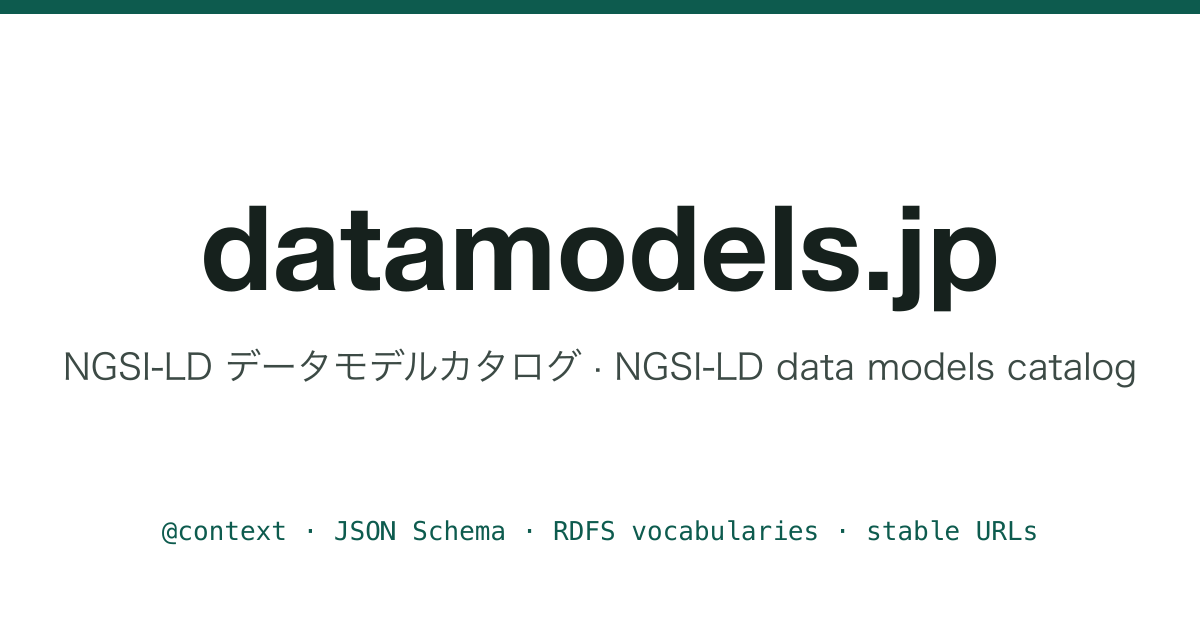
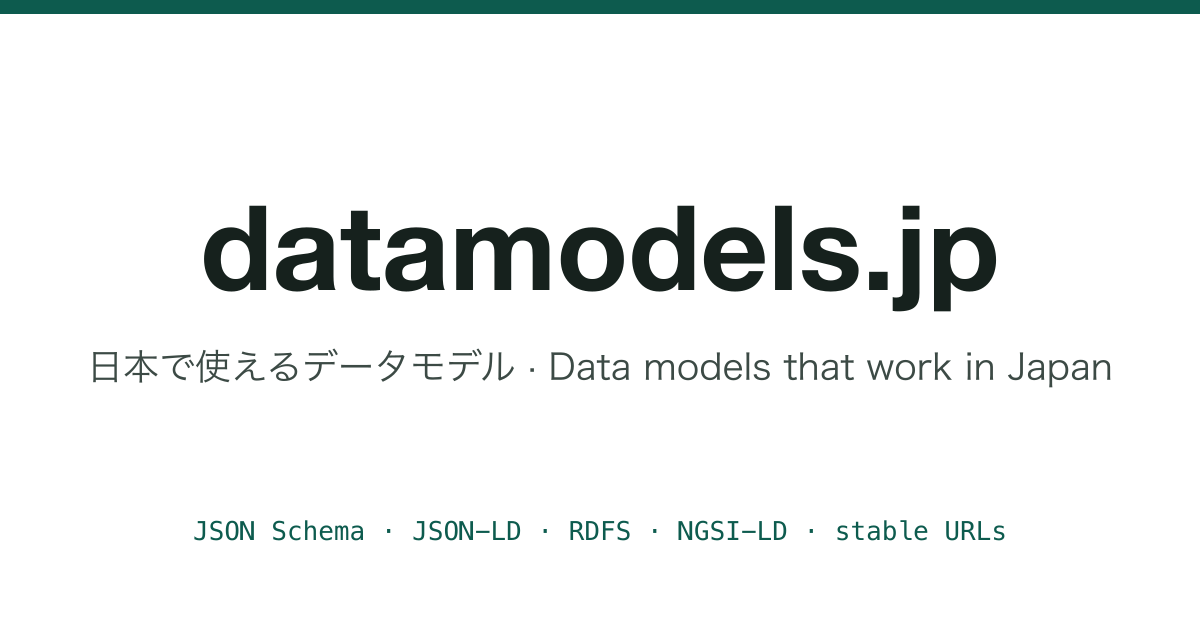
Present the catalog as data models for Japan, not NGSI-LD only
The models are usable as plain JSON (JSON Schema), as linked data (JSON-LD,
RDFS) and as they are with NGSI-LD, which shapes their conventions.

- Home, site and About descriptions, preview image, README, package.json,
  catalog-info.yaml and the design document say so; the heading is
  「日本で使えるデータモデルのカタログ」 / "Data models that work in Japan".
- Using the models (ja/en) opens with the three ways and gains step 4, linked
  data: JSON-LD to RDF in Node.js (jsonld) and Python (pyld), both run against
  the live site, plus pointers to the vocabularies and mapping tables.

Changed region(s): [[0.0617, 0.5429, 0.9558, 0.6032], [0.4625, 0.8143, 0.8633, 0.8746], [0.1233, 0.8143, 0.4317, 0.8746]]

diff --git a/site/.vitepress/config.ts b/site/.vitepress/config.ts
@@ -73,7 +73,7 @@ const SITE_URL = 'https://datamodels.jp';
 
 export default defineConfig({
   title: 'datamodels.jp',
-  description: 'Bilingual catalog of NGSI-LD data models: JSON-LD contexts, JSON Schemas and vocabularies at stable URLs',
+  description: 'Data models that work in Japan: JSON Schemas, JSON-LD contexts and vocabularies at stable URLs, ready for NGSI-LD',
   base: '/',
   cleanUrls: true,
   lastUpdated: false,
@@ -95,7 +95,7 @@ export default defineConfig({
   transformPageData(pageData) {
     const path = pageData.relativePath.replace(/(^|\/)index\.md$/, '$1').replace(/\.md$/, '');
     const title = pageData.title && pageData.title !== 'datamodels.jp' ? `${pageData.title} | datamodels.jp` : 'datamodels.jp';
-    const description = pageData.description || pageData.frontmatter.description || 'Bilingual catalog of NGSI-LD data models: JSON-LD contexts, JSON Schemas and vocabularies at stable URLs';
+    const description = pageData.description || pageData.frontmatter.description || 'Data models that work in Japan: JSON Schemas, JSON-LD contexts and vocabularies at stable URLs, ready for NGSI-LD';
     pageData.frontmatter.head ??= [];
     pageData.frontmatter.head.push(
       ['meta', { property: 'og:title', content: title }],
@@ -132,7 +132,7 @@ export default defineConfig({
     root: {
       label: '日本語',
       lang: 'ja',
-      description: 'NGSI-LD データモデルカタログ',
+      description: '日本で使えるデータモデルのカタログ',
       themeConfig: {
         nav: nav('', 'ja'),
         footer: { message: '運営: <a href="https://geolonia.com/">Geolonia</a> · モデル CC BY 4.0 · コード Apache-2.0 · <a href="/about">このサイトについて</a>' },

diff --git a/site/guide/use.md b/site/guide/use.md
@@ -1,11 +1,15 @@
 ---
 title: 使い方
-description: カタログのモデルでデータを検証し、NGSI-LD ブローカーに送るまで
+description: カタログのモデルで JSON を検証し、NGSI-LD ブローカーに送り、Linked Data として使う
 ---
 
 # 使い方
 
-各モデルのページには、`@context`、JSON Schema、例の URL があります。どれも普通の URL なので、特定の製品は要りません。標準の NGSI-LD API を話すブローカーなら、どれでも使えます。
+各モデルのページには、`@context`、JSON Schema、例の URL があります。どれも普通の URL なので、特定の製品は要りません。使い方は 3 通りあります。
+
+- **JSON として**: JSON Schema で、API のリクエスト、フォームの入力、CSV から変換したデータなどを検証する（手順 2）。
+- **NGSI-LD で**: 標準の NGSI-LD API を話すブローカーに、そのまま送る（手順 3）。モデルの形（`id`・`type`、属性の種類、normalized の例）は NGSI-LD の約束に従っています。
+- **Linked Data として**: `@context` を付けると RDF になり、各属性の意味を IRI で指せる（手順 4）。
 
 コードブロックは右上のボタンでコピーできます。
 
@@ -109,6 +113,55 @@ curl "$GEONICDB_BASE_URL/ngsi-ld/v1/entities?type=RoadRestriction&q=restrictionS
 :::
 
 複数のテナントを持つブローカーでは、標準の `NGSILD-Tenant` ヘッダーでテナントを指定します。認証の方法はブローカーごとに違います。
+
+## 4. Linked Data として使う
+
+JSON に `@context` を付けると JSON-LD になり、RDF に変換できます。属性はカタログの IRI（`https://datamodels.jp/ns/...`）や、借りている標準の IRI（schema.org、Smart Data Models）になります。`id` と `type` を JSON-LD の `@id`・`@type` にするため、NGSI-LD の core context も並べます。
+
+::: code-group
+
+```js [Node.js]
+// npm install jsonld
+import jsonld from 'jsonld';
+
+const entity = await (await fetch('https://datamodels.jp/examples/transportation/RoadRestriction/example.json')).json();
+// 普通の JSON に context を付けると Linked Data になる。
+entity['@context'] = [
+  'https://datamodels.jp/context/transportation/v1.0.0.jsonld',
+  'https://uri.etsi.org/ngsi-ld/v1/ngsi-ld-core-context-v1.8.jsonld', // id と type の対応
+];
+
+// 既定のローダーの代わりに fetch を使う（どの環境でも動く）。
+const documentLoader = async (url) => ({ documentUrl: url, document: await (await fetch(url)).json() });
+console.log(await jsonld.toRDF(entity, { format: 'application/n-quads', documentLoader }));
+```
+
+```python [Python]
+# pip install pyld requests
+import requests
+from pyld import jsonld
+
+entity = requests.get("https://datamodels.jp/examples/transportation/RoadRestriction/example.json", timeout=30).json()
+# 普通の JSON に context を付けると Linked Data になる。
+entity["@context"] = [
+    "https://datamodels.jp/context/transportation/v1.0.0.jsonld",
+    "https://uri.etsi.org/ngsi-ld/v1/ngsi-ld-core-context-v1.8.jsonld",  # id と type の対応
+]
+
+print(jsonld.to_rdf(entity, {"format": "application/n-quads"}))
+```
+
+:::
+
+結果の一部:
+
+```text
+<urn:ngsi-ld:RoadRestriction:0001> <http://www.w3.org/1999/02/22-rdf-syntax-ns#type> <https://datamodels.jp/ns/transportation/RoadRestriction> .
+<urn:ngsi-ld:RoadRestriction:0001> <https://datamodels.jp/ns/transportation/restrictionStatus> "closed" .
+<urn:ngsi-ld:RoadRestriction:0001> <https://smartdatamodels.org/dataModel.Transportation/roadName> "靖国通り" .
+```
+
+各サブジェクトの語彙（`/vocab/<サブジェクト>/v1.0.0.jsonld`）には、型と属性の日本語・英語のラベルと説明があります。GIF や自治体標準オープンデータセットなど他の標準との対応表は、各モデルのページにあり、データの変換に使えます。
 
 ## 対応ブローカー
 

diff --git a/site/en/guide/use.md b/site/en/guide/use.md
@@ -1,11 +1,15 @@
 ---
 title: Using the models
-description: From a catalog model to validated data in an NGSI-LD broker
+description: Validate JSON with the catalog models, send it to an NGSI-LD broker, and use it as linked data
 ---
 
 # Using the models
 
-Every model page lists its `@context`, JSON Schema and example URLs. They are plain URLs, so no particular product is needed: any broker that speaks the standard NGSI-LD API works.
+Every model page lists its `@context`, JSON Schema and example URLs. They are plain URLs, so no particular product is needed. There are three ways to use them:
+
+- **As JSON**: validate API requests, form input or data converted from CSV with the JSON Schema (step 2).
+- **With NGSI-LD**: send the data as it is to any broker that speaks the standard NGSI-LD API (step 3). The models' shape (`id` and `type`, the kinds of attributes, the normalized examples) follows NGSI-LD conventions.
+- **As linked data**: add the `@context` and the data becomes RDF, with every attribute's meaning identified by an IRI (step 4).
 
 Copy a code block with the button at its top right.
 
@@ -109,6 +113,55 @@ curl "$GEONICDB_BASE_URL/ngsi-ld/v1/entities?type=RoadRestriction&q=restrictionS
 :::
 
 Brokers with several tenants take the tenant in the standard `NGSILD-Tenant` header. Authentication differs from broker to broker.
+
+## 4. Use as linked data
+
+Adding the `@context` turns JSON into JSON-LD, which converts to RDF. Attributes become the catalog's IRIs (`https://datamodels.jp/ns/...`) or those of the standards it borrows from (schema.org, Smart Data Models). The NGSI-LD core context is listed too, so that `id` and `type` become JSON-LD's `@id` and `@type`.
+
+::: code-group
+
+```js [Node.js]
+// npm install jsonld
+import jsonld from 'jsonld';
+
+const entity = await (await fetch('https://datamodels.jp/examples/transportation/RoadRestriction/example.json')).json();
+// Plain JSON becomes linked data by adding the catalog context.
+entity['@context'] = [
+  'https://datamodels.jp/context/transportation/v1.0.0.jsonld',
+  'https://uri.etsi.org/ngsi-ld/v1/ngsi-ld-core-context-v1.8.jsonld', // maps id and type
+];
+
+// fetch replaces the default document loader, so this runs anywhere.
+const documentLoader = async (url) => ({ documentUrl: url, document: await (await fetch(url)).json() });
+console.log(await jsonld.toRDF(entity, { format: 'application/n-quads', documentLoader }));
+```
+
+```python [Python]
+# pip install pyld requests
+import requests
+from pyld import jsonld
+
+entity = requests.get("https://datamodels.jp/examples/transportation/RoadRestriction/example.json", timeout=30).json()
+# Plain JSON becomes linked data by adding the catalog context.
+entity["@context"] = [
+    "https://datamodels.jp/context/transportation/v1.0.0.jsonld",
+    "https://uri.etsi.org/ngsi-ld/v1/ngsi-ld-core-context-v1.8.jsonld",  # maps id and type
+]
+
+print(jsonld.to_rdf(entity, {"format": "application/n-quads"}))
+```
+
+:::
+
+Part of the output:
+
+```text
+<urn:ngsi-ld:RoadRestriction:0001> <http://www.w3.org/1999/02/22-rdf-syntax-ns#type> <https://datamodels.jp/ns/transportation/RoadRestriction> .
+<urn:ngsi-ld:RoadRestriction:0001> <https://datamodels.jp/ns/transportation/restrictionStatus> "closed" .
+<urn:ngsi-ld:RoadRestriction:0001> <https://smartdatamodels.org/dataModel.Transportation/roadName> "靖国通り" .
+```
+
+Each subject's vocabulary (`/vocab/<subject>/v1.0.0.jsonld`) carries Japanese and English labels and descriptions for its types and attributes. The mapping tables to other standards, such as GIF and the municipal standard open datasets, are on each model page and help with converting data.
 
 ## Works with
 

diff --git a/docs/design.md b/docs/design.md
@@ -9,7 +9,7 @@
 
 ## Summary
 
-A public, versioned, bilingual catalog of NGSI-LD data models that work in practice in Japan, run as a digital commons rather than a product feature. Machine-readable files (JSON-LD `@context`, JSON Schema, RDFS vocabularies, examples) are served from URLs that never change, so anyone can reference them from stored entities. The catalog extends and maps existing standards (Smart Data Models, the Digital Agency's GIF and 自治体標準オープンデータセット, RFC 8984) instead of copying them. It is generated from a public repository that accepts contributions in Japanese and English. Broker-specific files, such as GeonicDB Custom Data Model definitions, are produced by adapters outside the catalog core.
+A public, versioned, bilingual catalog of data models that work in practice in Japan, usable as plain JSON (JSON Schema), as linked data (JSON-LD, RDFS) and as they are with NGSI-LD, which shapes their conventions, run as a digital commons rather than a product feature. Machine-readable files (JSON-LD `@context`, JSON Schema, RDFS vocabularies, examples) are served from URLs that never change, so anyone can reference them from stored entities. The catalog extends and maps existing standards (Smart Data Models, the Digital Agency's GIF and 自治体標準オープンデータセット, RFC 8984) instead of copying them. It is generated from a public repository that accepts contributions in Japanese and English. Broker-specific files, such as GeonicDB Custom Data Model definitions, are produced by adapters outside the catalog core.
 
 ## Problem
 

diff --git a/site/index.md b/site/index.md
@@ -3,8 +3,8 @@ layout: home
 
 hero:
   name: datamodels.jp
-  text: NGSI-LD データモデルカタログ
-  tagline: 日本の現場で使えるデータモデルを、@context・JSON Schema・語彙として変わらない URL で提供します。既存の標準は複製せず拡張します
+  text: 日本で使えるデータモデルのカタログ
+  tagline: 日本の現場で使えるデータモデルを、JSON Schema・JSON-LD の @context・語彙として変わらない URL で提供します。NGSI-LD ならそのまま使えます。既存の標準は複製せず拡張します
   actions:
     - theme: brand
       text: データモデル一覧
@@ -25,8 +25,8 @@ features:
     details: 公開したバージョン付きの @context と JSON Schema は変更も削除もされません。どの URL を使うべきかはガイドへ。
     link: /guide/urls
     linkText: URL の約束
-  - title: 検証済みの例、どのブローカーでも
-    details: すべての例は CI で検証されます。標準の NGSI-LD API で送れるので、特定の製品は要りません。検証と送信の手順はガイドへ。
+  - title: どのシステムでも
+    details: すべての例は CI で検証されます。JSON Schema で JSON を検証でき、JSON-LD で Linked Data（RDF）になり、NGSI-LD ブローカーにはそのまま送れます。特定の製品は要りません。
     link: /guide/use
     linkText: 使い方
   - title: 他のカタログとの関係

diff --git a/site/en/index.md b/site/en/index.md
@@ -3,8 +3,8 @@ layout: home
 
 hero:
   name: datamodels.jp
-  text: NGSI-LD data models catalog
-  tagline: Data models that work in practice in Japan, as @context files, JSON Schemas and vocabularies at URLs that never change. Existing standards are extended, not copied
+  text: Data models that work in Japan
+  tagline: Data models that work in practice in Japan, as JSON Schemas, JSON-LD @context files and vocabularies at URLs that never change. Ready to use with NGSI-LD. Existing standards are extended, not copied
   actions:
     - theme: brand
       text: All data models
@@ -25,8 +25,8 @@ features:
     details: Published versioned @context files and JSON Schemas are never modified or removed. The guide says which URL to use when.
     link: /en/guide/urls
     linkText: The URL contract
-  - title: Validated examples, any broker
-    details: Every example is validated in CI. The data goes through the standard NGSI-LD API, so no particular product is needed. The guide shows how to validate and send it.
+  - title: Any system
+    details: Every example is validated in CI. The JSON Schemas validate plain JSON, the JSON-LD contexts turn it into linked data (RDF), and NGSI-LD brokers take it as it is. No particular product is needed.
     link: /en/guide/use
     linkText: Using the models
   - title: Other catalogs

diff --git a/README.md b/README.md
@@ -1,6 +1,6 @@
 # datamodels
 
-Bilingual catalog of NGSI-LD data models, published at **https://datamodels.jp**. It serves JSON-LD `@context` files, JSON Schemas and RDFS vocabularies at URLs that never change, for data models that work in practice in Japan. Existing standards such as [Smart Data Models](https://smartdatamodels.org/), the Digital Agency's GIF and [RFC 8984](https://www.rfc-editor.org/rfc/rfc8984.html) are extended and mapped, not copied.
+Bilingual catalog of data models that work in practice in Japan, published at **https://datamodels.jp**. It serves JSON Schemas, JSON-LD `@context` files and RDFS vocabularies at URLs that never change: usable as plain JSON, as linked data, and as they are with NGSI-LD brokers. Existing standards such as [Smart Data Models](https://smartdatamodels.org/), the Digital Agency's GIF and [RFC 8984](https://www.rfc-editor.org/rfc/rfc8984.html) are extended and mapped, not copied.
 
 The site explains how to use and extend the models: [拡張する・貢献する](https://datamodels.jp/guide/extend) · [URL の約束](https://datamodels.jp/guide/urls) · [English](https://datamodels.jp/en/). Design background: [docs/design.md](docs/design.md).
 

diff --git a/site/guide/index.md b/site/guide/index.md
@@ -5,7 +5,7 @@ description: カタログのモデルの使い方、拡張の仕方、URL の約
 
 # ガイド
 
-- [使い方](/guide/use): カタログのモデルでデータを検証し、NGSI-LD ブローカーに送るまで。
+- [使い方](/guide/use): カタログのモデルで JSON を検証し、NGSI-LD ブローカーに送り、Linked Data として使う。
   - [GeonicDB](/guide/geonicdb): モデルを GeonicDB に登録し、エンティティを作成・検索する手順。
 - [拡張する・貢献する](/guide/extend): 既存のモデルを日本向けに拡張する方法、独自モデルを追加する方法、カタログへの貢献の仕方。
 - [変わらない URL](/guide/urls): このカタログが公開する URL の約束。バージョン、エイリアス、キャッシュ、IRI の解決。

diff --git a/site/en/guide/index.md b/site/en/guide/index.md
@@ -5,7 +5,7 @@ description: How to use the catalog's models, extend them, the URL contract, and
 
 # Guides
 
-- [Using the models](/en/guide/use): from a catalog model to validated data in an NGSI-LD broker.
+- [Using the models](/en/guide/use): validate JSON with the catalog models, send it to an NGSI-LD broker, and use it as linked data.
   - [GeonicDB](/en/guide/geonicdb): register a model in GeonicDB, then create and query entities.
 - [Extend and contribute](/en/guide/extend): extend an existing model for Japan, add your own, and contribute to the catalog.
 - [URLs that never change](/en/guide/urls): the URL contract of this catalog; versions, aliases, caching and IRI resolution.

diff --git a/site/en/about.md b/site/en/about.md
@@ -5,7 +5,7 @@ description: Operator, licences, disclaimer and privacy of datamodels.jp
 
 # About this site
 
-datamodels.jp is a catalog of NGSI-LD data models that work in practice in Japan. It is published as a product-neutral digital commons.
+datamodels.jp is a catalog of data models that work in practice in Japan, published as JSON Schema and JSON-LD and ready to use with NGSI-LD. It is published as a product-neutral digital commons.
 
 ## Operator
 
